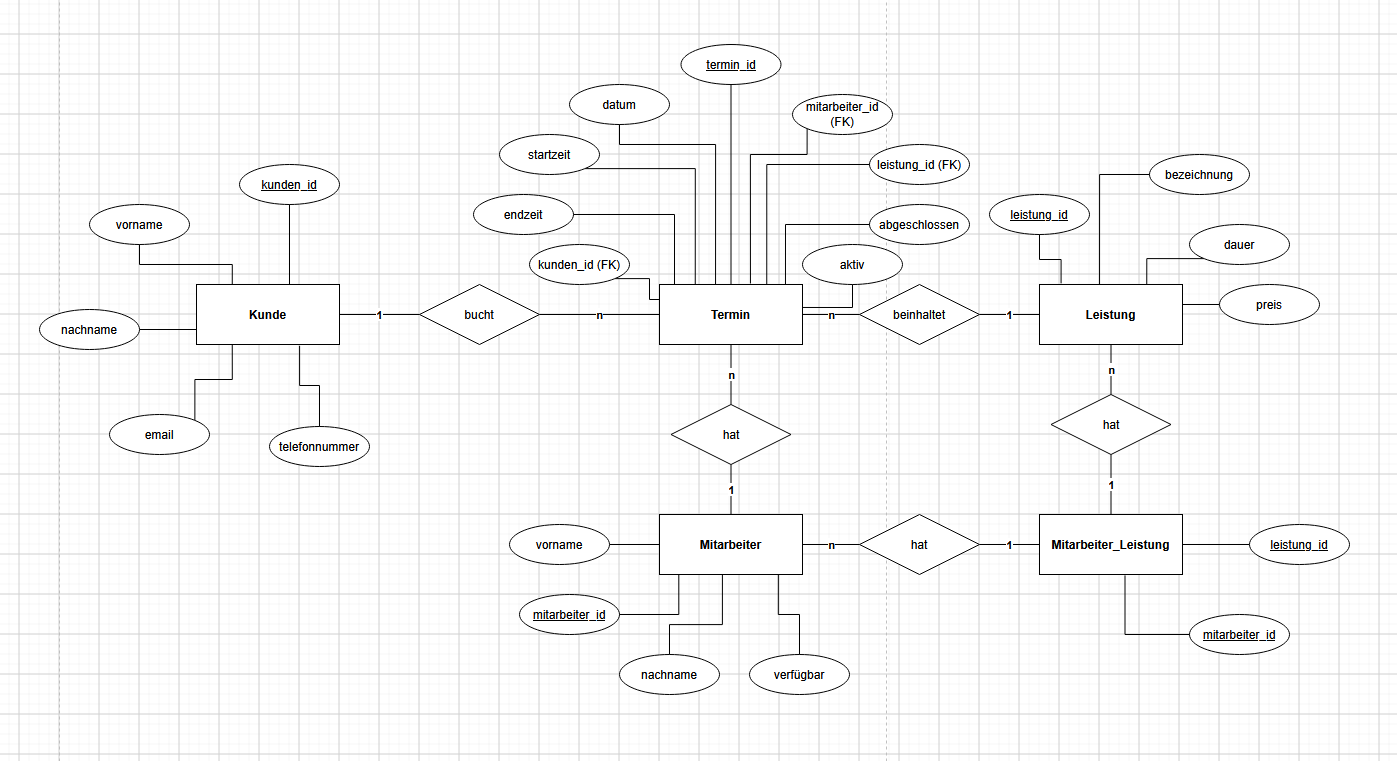
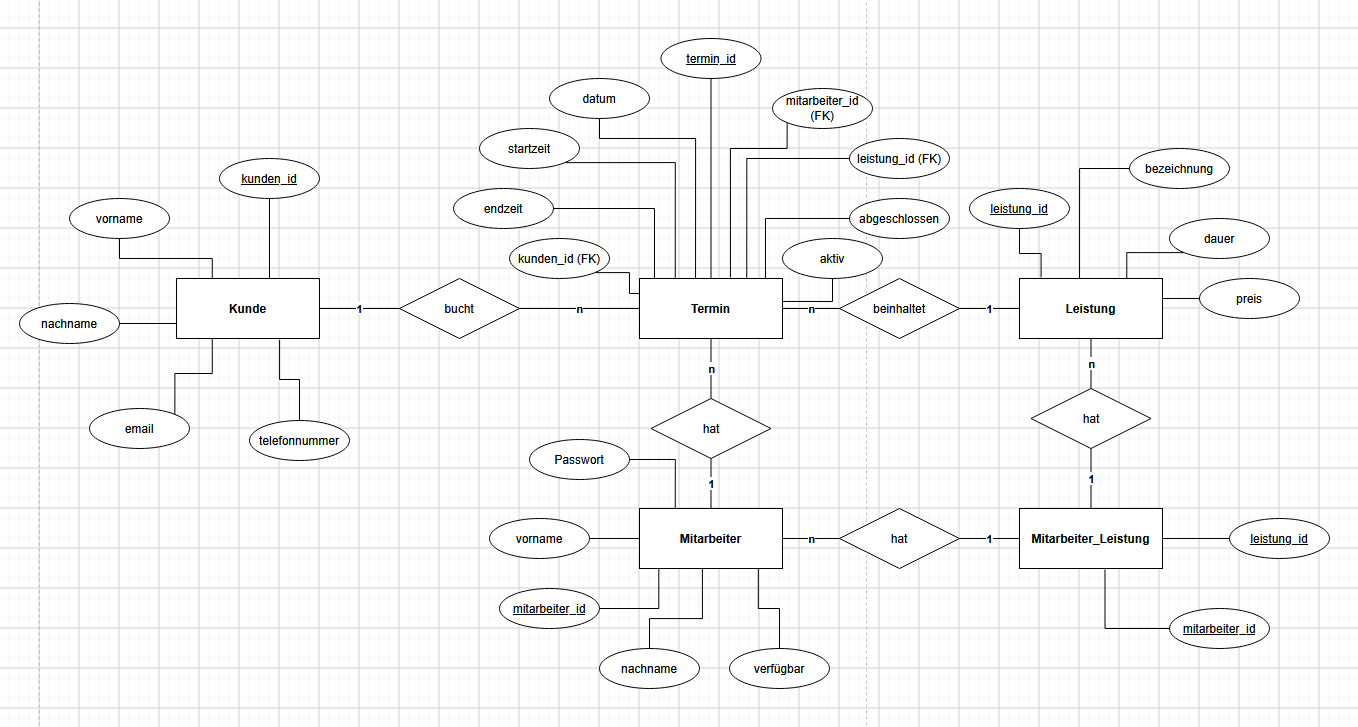
cookie in authBackend.js gesetzt nach Login, middleware in Server.js eingebaut, damit .../intern.html nciht mehr direkt aufgerufen werden kann

diff --git a/server.js b/server.js
@@ -2,6 +2,7 @@ import express from 'express'
 import cookieParser from 'cookie-parser'
 import 'dotenv/config'
 import { pool } from './src/utilities/db.js'
+import path from 'path'
 
 import { router as terminRouter } from './src/routes/terminRoute.js';
 import { router as buchungsRouter } from './src/routes/buchungsRouter.js';
@@ -11,13 +12,25 @@ import { router as mitarbeiterRouter } from "./src/routes/internRouter.js";
 const PORT = process.env.PORT || 8080
 const app = express()
 
+app.use(express.json()) 
+app.use(cookieParser()) 
+
+// Middleware: Prüft auf das Login-Cookie aus authBackend.js
+function checkAuth(req, res, next) {
+  if (req.cookies.ma_auth === "true") {
+    return next();
+  }
+  return res.redirect('/auth.html');
+}
+
+// intern.html nur noch für eingeloggte Mitarbeiter
+app.get(['/intern', '/intern.html'], checkAuth, (req, res) => {
+  res.sendFile(path.resolve('protected/intern.html'));
+});
 
 app.use(express.static("./public", {
   extensions: ['html']
 }));
-
-app.use(express.json()) 
-app.use(cookieParser()) 
 
 //Testroute freie Slots
 app.use('/api/terminbuchung', terminRouter);
@@ -47,7 +60,7 @@ app.get('/api/uebersicht', async (req, res) => {
 //PasswortCheck
 app.use("/api/passwortcheck", authRouter);
 
-//Mitarbeiterbereich
-app.use("/api/mitarbeiter", mitarbeiterRouter);
+//Mitarbeiterbereich mit checkAuth
+app.use("/api/mitarbeiter", checkAuth, mitarbeiterRouter);
   
 app.listen(PORT, () => console.log("Der Salon geht an den Start auf Port: ", PORT))

diff --git a/authBackend.js b/authBackend.js
@@ -29,8 +29,10 @@ router.post("/", async (req, res) => {
     if (!isMatch) {
       return res.status(401).json({ message: "Falsches Passwort!" });
     }
-
+  // Cookie setzen, wenn Mitarbeiter eingeloggt ist
+    res.cookie("ma_auth", "true", { httpOnly: true });
     res.status(200).json({ message: "Login erfolgreich!" });
+
   } catch (err) {
     console.error("Fehler beim Login:", err);
     res.status(500).json({ message: "Serverfehler beim Login." });
